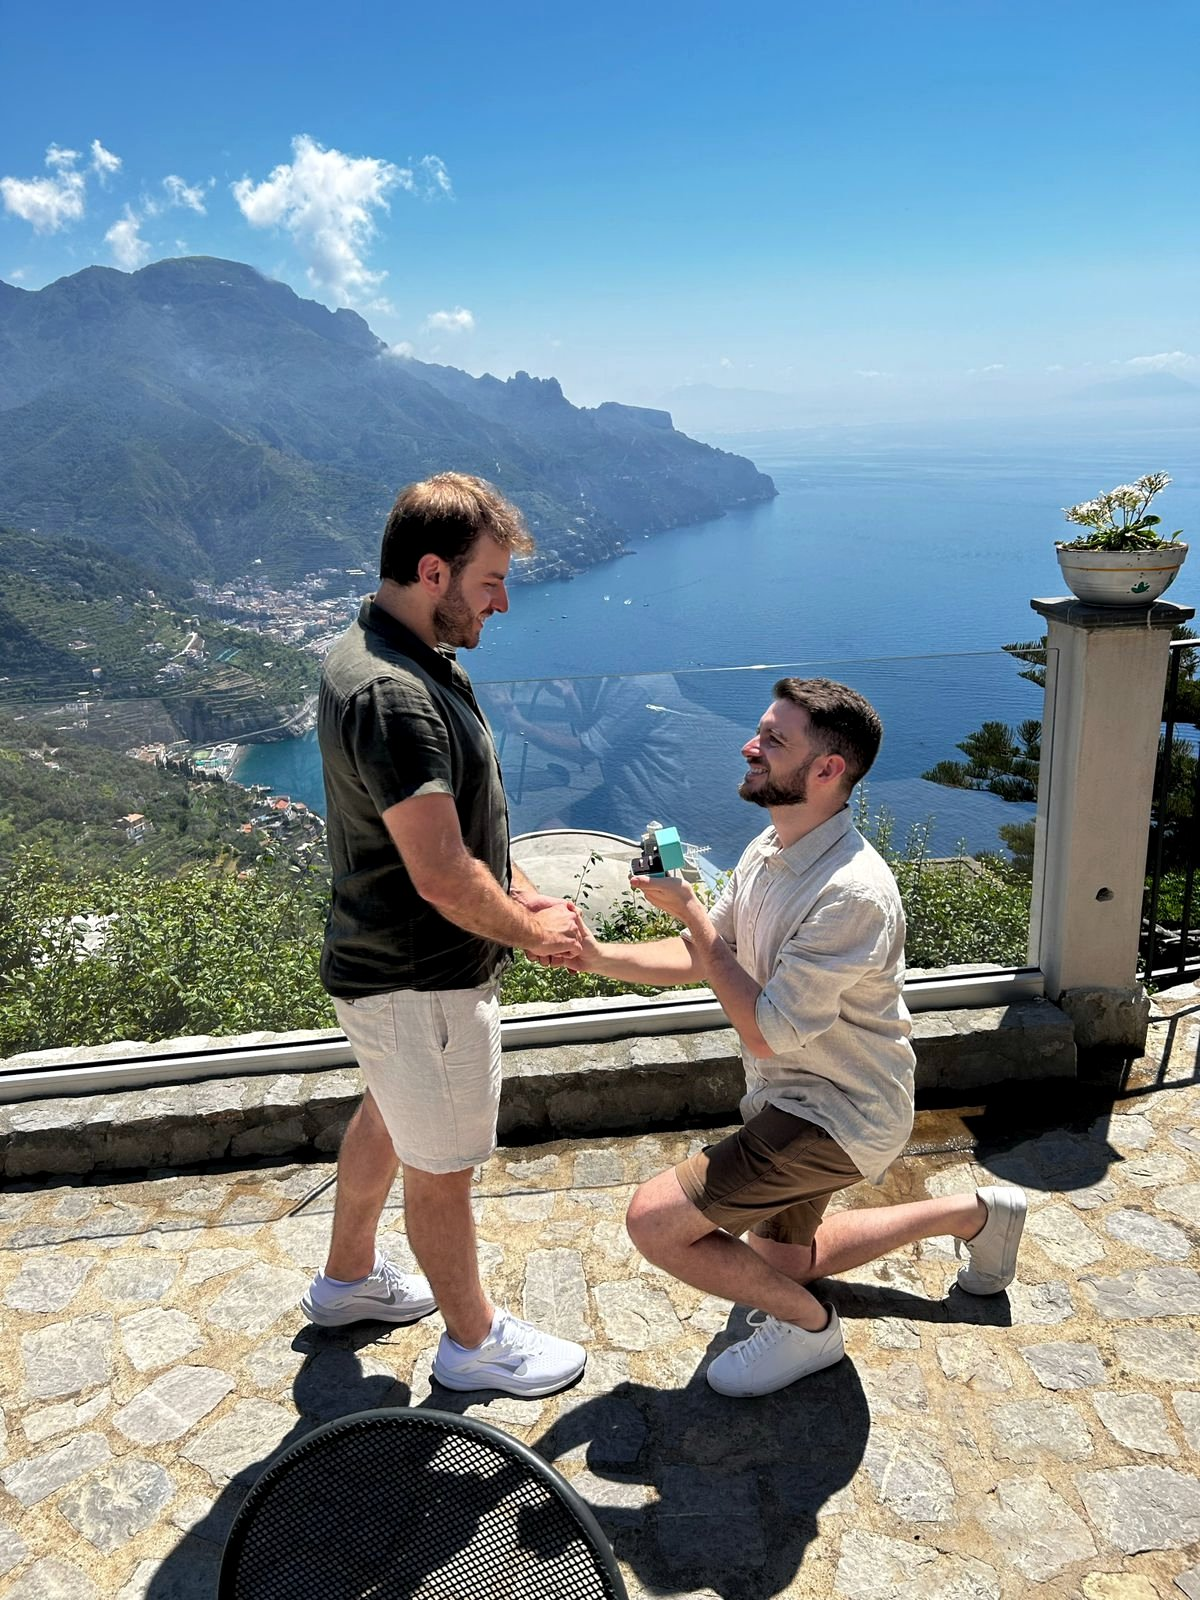
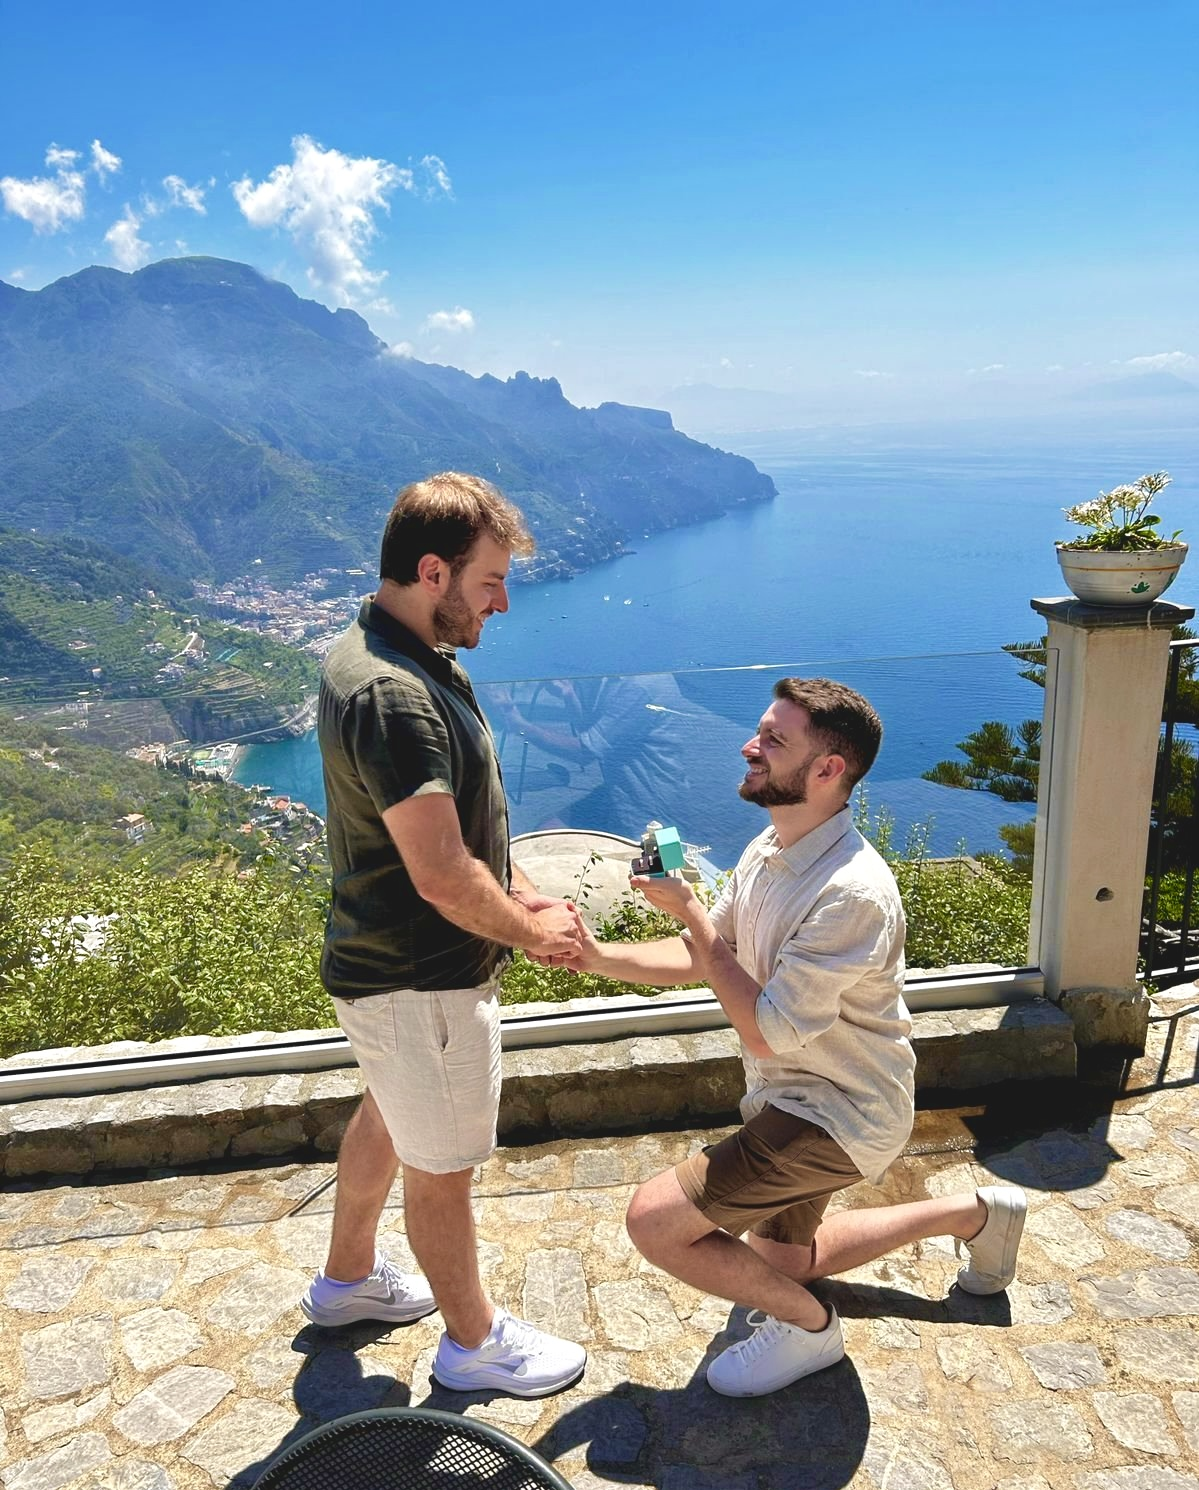
PIX: vira tela cheia do modal e remove fundo branco do QR

diff --git a/presentes.html b/presentes.html
@@ -198,50 +198,58 @@
   <div class="modal-paper paper">
     <button class="modal-close" aria-label="Fechar">×</button>
 
-    <p class="modal-kicker">— presente escolhido —</p>
-    <h3 class="modal-title" id="modal-gift-title">Café da manhã em Cala Brandinchi</h3>
+    <!-- TELA 1: formulário -->
+    <div class="gift-form-screen" id="gift-form-screen">
+      <p class="modal-kicker">— presente escolhido —</p>
+      <h3 class="modal-title" id="modal-gift-title">Café da manhã em Cala Brandinchi</h3>
 
-    <p class="gift-modal-price" id="modal-gift-price">R$ 120</p>
+      <p class="gift-modal-price" id="modal-gift-price">R$ 120</p>
 
-    <div class="gift-modal-amount" id="modal-gift-amount" hidden>
-      <label for="gift-amount-input" class="gift-amount-label">valor</label>
-      <div class="gift-amount-wrap">
-        <span class="gift-amount-currency">R$</span>
-        <input type="number" id="gift-amount-input" min="10" step="10" placeholder="0,00" inputmode="decimal">
+      <div class="gift-modal-amount" id="modal-gift-amount" hidden>
+        <label for="gift-amount-input" class="gift-amount-label">valor</label>
+        <div class="gift-amount-wrap">
+          <span class="gift-amount-currency">R$</span>
+          <input type="number" id="gift-amount-input" min="10" step="10" placeholder="0,00" inputmode="decimal">
+        </div>
       </div>
+
+      <div class="gift-modal-fields">
+        <div class="gift-field">
+          <label for="gift-name-input" class="gift-field-label">seu nome</label>
+          <input type="text" id="gift-name-input" class="gift-field-input" placeholder="como devemos te chamar" autocomplete="name" maxlength="100">
+          <span class="gift-field-count" id="gift-name-count" aria-live="polite">0/100</span>
+        </div>
+        <div class="gift-field">
+          <label for="gift-message-input" class="gift-field-label">mensagem (opcional)</label>
+          <textarea id="gift-message-input" class="gift-field-input gift-field-textarea" rows="3" placeholder="um recado curtinho pra gente" maxlength="2000"></textarea>
+          <span class="gift-field-count" id="gift-message-count" aria-live="polite">0/2000</span>
+        </div>
+      </div>
+
+      <p class="modal-text gift-modal-text">
+        Ao clicar em PIX, mostramos o QR code e o código copia e cola, e sua mensagem é enviada para nós.
+      </p>
+
+      <div class="gift-payment-buttons" id="gift-payment-buttons">
+        <a class="gift-pay-btn gift-pay-pix" id="gift-pay-pix" href="#" rel="noopener" aria-disabled="true">
+          <span class="gift-pay-label">PIX</span>
+          <span class="gift-pay-sub">à vista</span>
+        </a>
+        <a class="gift-pay-btn gift-pay-card" id="gift-pay-card" href="#" target="_blank" rel="noopener" aria-disabled="true">
+          <span class="gift-pay-label">Cartão</span>
+          <span class="gift-pay-sub">parcelado em até 12x</span>
+        </a>
+      </div>
+
+      <p class="modal-hint" id="gift-modal-hint">
+        Preencha seu nome para liberar os botões de pagamento.
+      </p>
     </div>
 
-    <div class="gift-modal-fields">
-      <div class="gift-field">
-        <label for="gift-name-input" class="gift-field-label">seu nome</label>
-        <input type="text" id="gift-name-input" class="gift-field-input" placeholder="como devemos te chamar" autocomplete="name" maxlength="100">
-        <span class="gift-field-count" id="gift-name-count" aria-live="polite">0/100</span>
-      </div>
-      <div class="gift-field">
-        <label for="gift-message-input" class="gift-field-label">mensagem (opcional)</label>
-        <textarea id="gift-message-input" class="gift-field-input gift-field-textarea" rows="3" placeholder="um recado curtinho pra gente" maxlength="2000"></textarea>
-        <span class="gift-field-count" id="gift-message-count" aria-live="polite">0/2000</span>
-      </div>
-    </div>
-
-    <p class="modal-text gift-modal-text">
-      Ao clicar em PIX ou Cartão, sua mensagem é enviada para nós junto com o pagamento. Tudo é processado com segurança pelo Mercado Pago.
-    </p>
-
-    <div class="gift-payment-buttons" id="gift-payment-buttons">
-      <a class="gift-pay-btn gift-pay-pix" id="gift-pay-pix" href="#" rel="noopener" aria-disabled="true">
-        <span class="gift-pay-label">PIX</span>
-        <span class="gift-pay-sub">à vista</span>
-      </a>
-      <a class="gift-pay-btn gift-pay-card" id="gift-pay-card" href="#" target="_blank" rel="noopener" aria-disabled="true">
-        <span class="gift-pay-label">Cartão</span>
-        <span class="gift-pay-sub">parcelado em até 12x</span>
-      </a>
-    </div>
-
-    <!-- Painel PIX: aparece ao clicar em PIX -->
+    <!-- TELA 2: PIX (substitui o formulário) -->
     <div class="gift-pix-panel" id="gift-pix-panel" hidden>
-      <p class="gift-pix-title">Pagamento via PIX</p>
+      <p class="modal-kicker">— pagamento via PIX —</p>
+      <h3 class="gift-pix-gift" id="gift-pix-gift">Café da manhã · R$ 120</h3>
       <div class="gift-pix-options">
         <div class="gift-pix-option">
           <p class="gift-pix-opt-label">1 · Escaneie o QR code</p>
@@ -256,10 +264,6 @@
       </div>
       <button type="button" id="gift-pix-back" class="gift-pix-back">‹ voltar</button>
     </div>
-
-    <p class="modal-hint" id="gift-modal-hint">
-      Preencha seu nome para liberar os botões de pagamento.
-    </p>
   </div>
 </div>
 

diff --git a/styles.css b/styles.css
@@ -1590,17 +1590,15 @@ body.modal-open { overflow: hidden; }
 }
 
 /* ---------- Painel PIX (QR + copia e cola) ---------- */
-.gift-pix-panel {
-  margin-bottom: 18px;
-}
-.gift-pix-title {
+.gift-pix-gift {
   font-family: var(--font-display);
-  font-size: 22px;
-  letter-spacing: 0.12em;
-  text-transform: uppercase;
-  color: var(--teal);
+  font-weight: 400;
+  font-size: 26px;
+  color: var(--deep);
   text-align: center;
-  margin: 0 0 20px;
+  margin: 0 0 22px;
+  letter-spacing: 0.02em;
+  line-height: 1.2;
 }
 .gift-pix-options {
   display: flex;
@@ -1621,13 +1619,11 @@ body.modal-open { overflow: hidden; }
   letter-spacing: 0.04em;
 }
 .gift-pix-qr {
-  width: 200px;
-  height: 200px;
-  object-fit: contain;
-  border: 1px solid rgba(33, 114, 128, 0.2);
-  border-radius: 8px;
-  background: #fff;
-  padding: 8px;
+  width: 240px;
+  height: auto;
+  display: inline-block;
+  /* funde o fundo branco do JPEG com o creme do modal */
+  mix-blend-mode: multiply;
 }
 .gift-pix-divider {
   display: flex;

diff --git a/presentes.js b/presentes.js
@@ -74,8 +74,9 @@
   const msgCount   = document.getElementById('gift-message-count');
   const pixBtn     = document.getElementById('gift-pay-pix');
   const cardBtn    = document.getElementById('gift-pay-card');
-  const payButtons = document.getElementById('gift-payment-buttons');
+  const formScreen = document.getElementById('gift-form-screen');
   const pixPanel   = document.getElementById('gift-pix-panel');
+  const pixGiftEl  = document.getElementById('gift-pix-gift');
   const pixQRImg   = document.getElementById('gift-pix-qr');
   const pixCodeEl  = document.getElementById('gift-pix-code');
   const pixCopyBtn = document.getElementById('gift-pix-copy');
@@ -86,8 +87,7 @@
 
   function hidePixPanel() {
     pixPanel.hidden = true;
-    payButtons.hidden = false;
-    hintEl.hidden = false;
+    formScreen.hidden = false;
     pixCopyBtn.textContent = 'Copiar código';
     pixCopyBtn.classList.remove('is-copied');
   }
@@ -97,12 +97,14 @@
       hintEl.textContent = 'O PIX deste presente ainda está sendo preparado. Use o cartão ou tente novamente em breve.';
       return;
     }
+    const valor = getValor();
+    pixGiftEl.textContent = currentGift.name + ' · R$ ' + valor.toLocaleString('pt-BR');
     pixQRImg.src = currentGift.pixQR || '';
     pixQRImg.style.display = currentGift.pixQR ? '' : 'none';
     pixCodeEl.textContent = currentGift.pixCode;
-    payButtons.hidden = true;
-    hintEl.hidden = true;
+    formScreen.hidden = true;
     pixPanel.hidden = false;
+    pixPanel.parentElement.scrollTop = 0;
   }
 
   function updateCounts() {